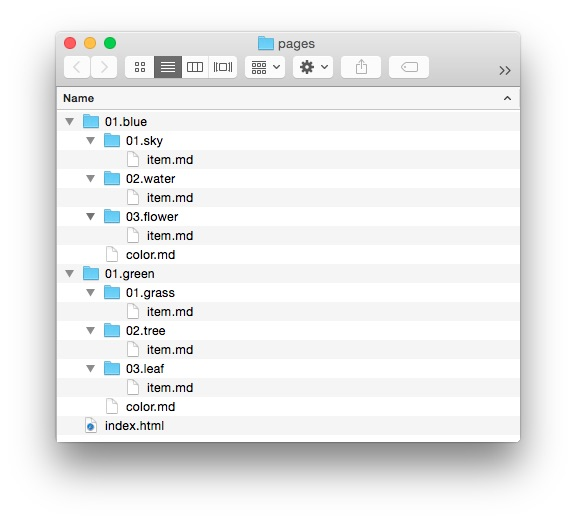
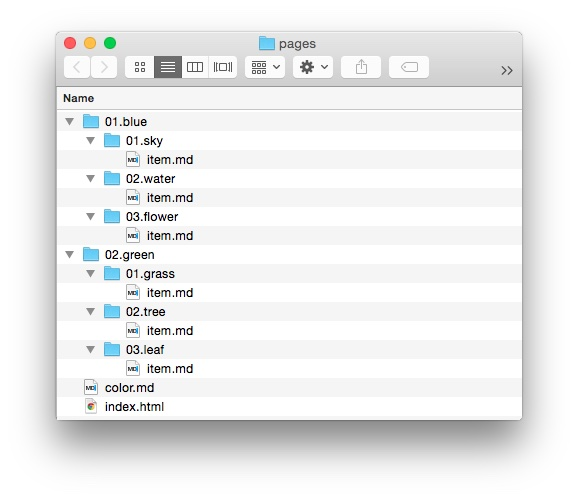
Updated Linking Doc

Changed region(s): [[0.0938, 0.06, 0.9062, 0.87]]

diff --git a/pages/02.content/04.linking/docs.md b/pages/02.content/04.linking/docs.md
@@ -37,7 +37,7 @@ In this example, we're moving up a directory and loading the default page locate
 [link](../water)
 ```
 
-This next example does a very similar thing, linking from `pages/01.blue/01.sky/item.md` to `pages/01.green/02.tree/item.md`, but when loading the `item.md` file, a slug has been assigned to the file of `tree-is-green`. 
+This next example does a very similar thing, linking from `pages/01.blue/01.sky/item.md` to `pages/02.green/02.tree/item.md`, but when loading the `item.md` file, a slug has been assigned to the file of `tree-is-green`. 
 
 ```markdown
 [link](../../green/tree-is-green)
